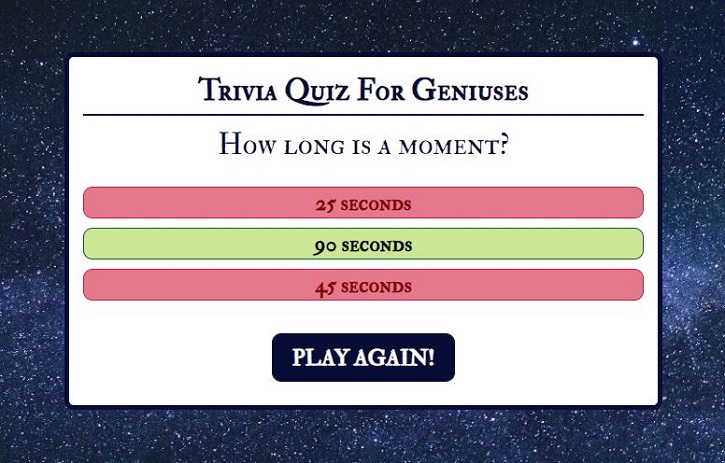
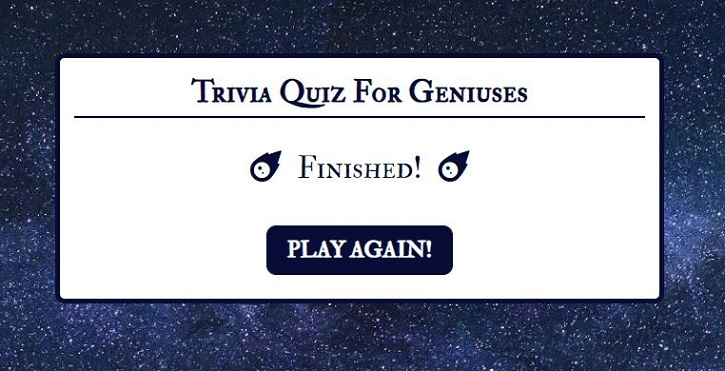
Change image for quiz page end screen in readme.md

diff --git a/assets/js/script.js b/assets/js/script.js
@@ -33,7 +33,7 @@
  }
  
  function nextQuestion() {
-     resetConditions();
+     clearConditions();
      showQuestion(mixQuestions[currentQuestionIndex]);
  }
  
@@ -51,7 +51,7 @@
      });
  }
  
- function resetConditions() {
+ function clearConditions() {
      nextButton.classList.add('hide');
      resultsContainer.classList.add('hide');
      while (optionButton.firstChild) {

diff --git a/assets/css/style.css b/assets/css/style.css
@@ -110,7 +110,7 @@ button .btn {
     background-color: rgb(204, 231, 150);
     border-color: rgb(11, 97, 25);
     font-weight: bold;
-    color: dark rgb(2, 43, 2);
+    color: rgb(2, 43, 2);
 }
 
 .btn.incorrect {

diff --git a/README.md b/README.md
@@ -38,7 +38,7 @@ The purpose of Genius Trivia Quiz is to test user's advanced general knowledge t
 ![Quiz game page with correct/incorrect answer](assets/wireframes/wireframe_game_correct_incorrect.JPG)
 
 - ### **QUIZ PAGE - END SCREEN**
-    - The screen shows the last question answered and 'Play Again' button.
+    - The screen shows a text 'Finished!' and 'Play Again' button.
 
 ![End of game page](assets/wireframes/wireframe_end_screen_w_hover.JPG)
 
